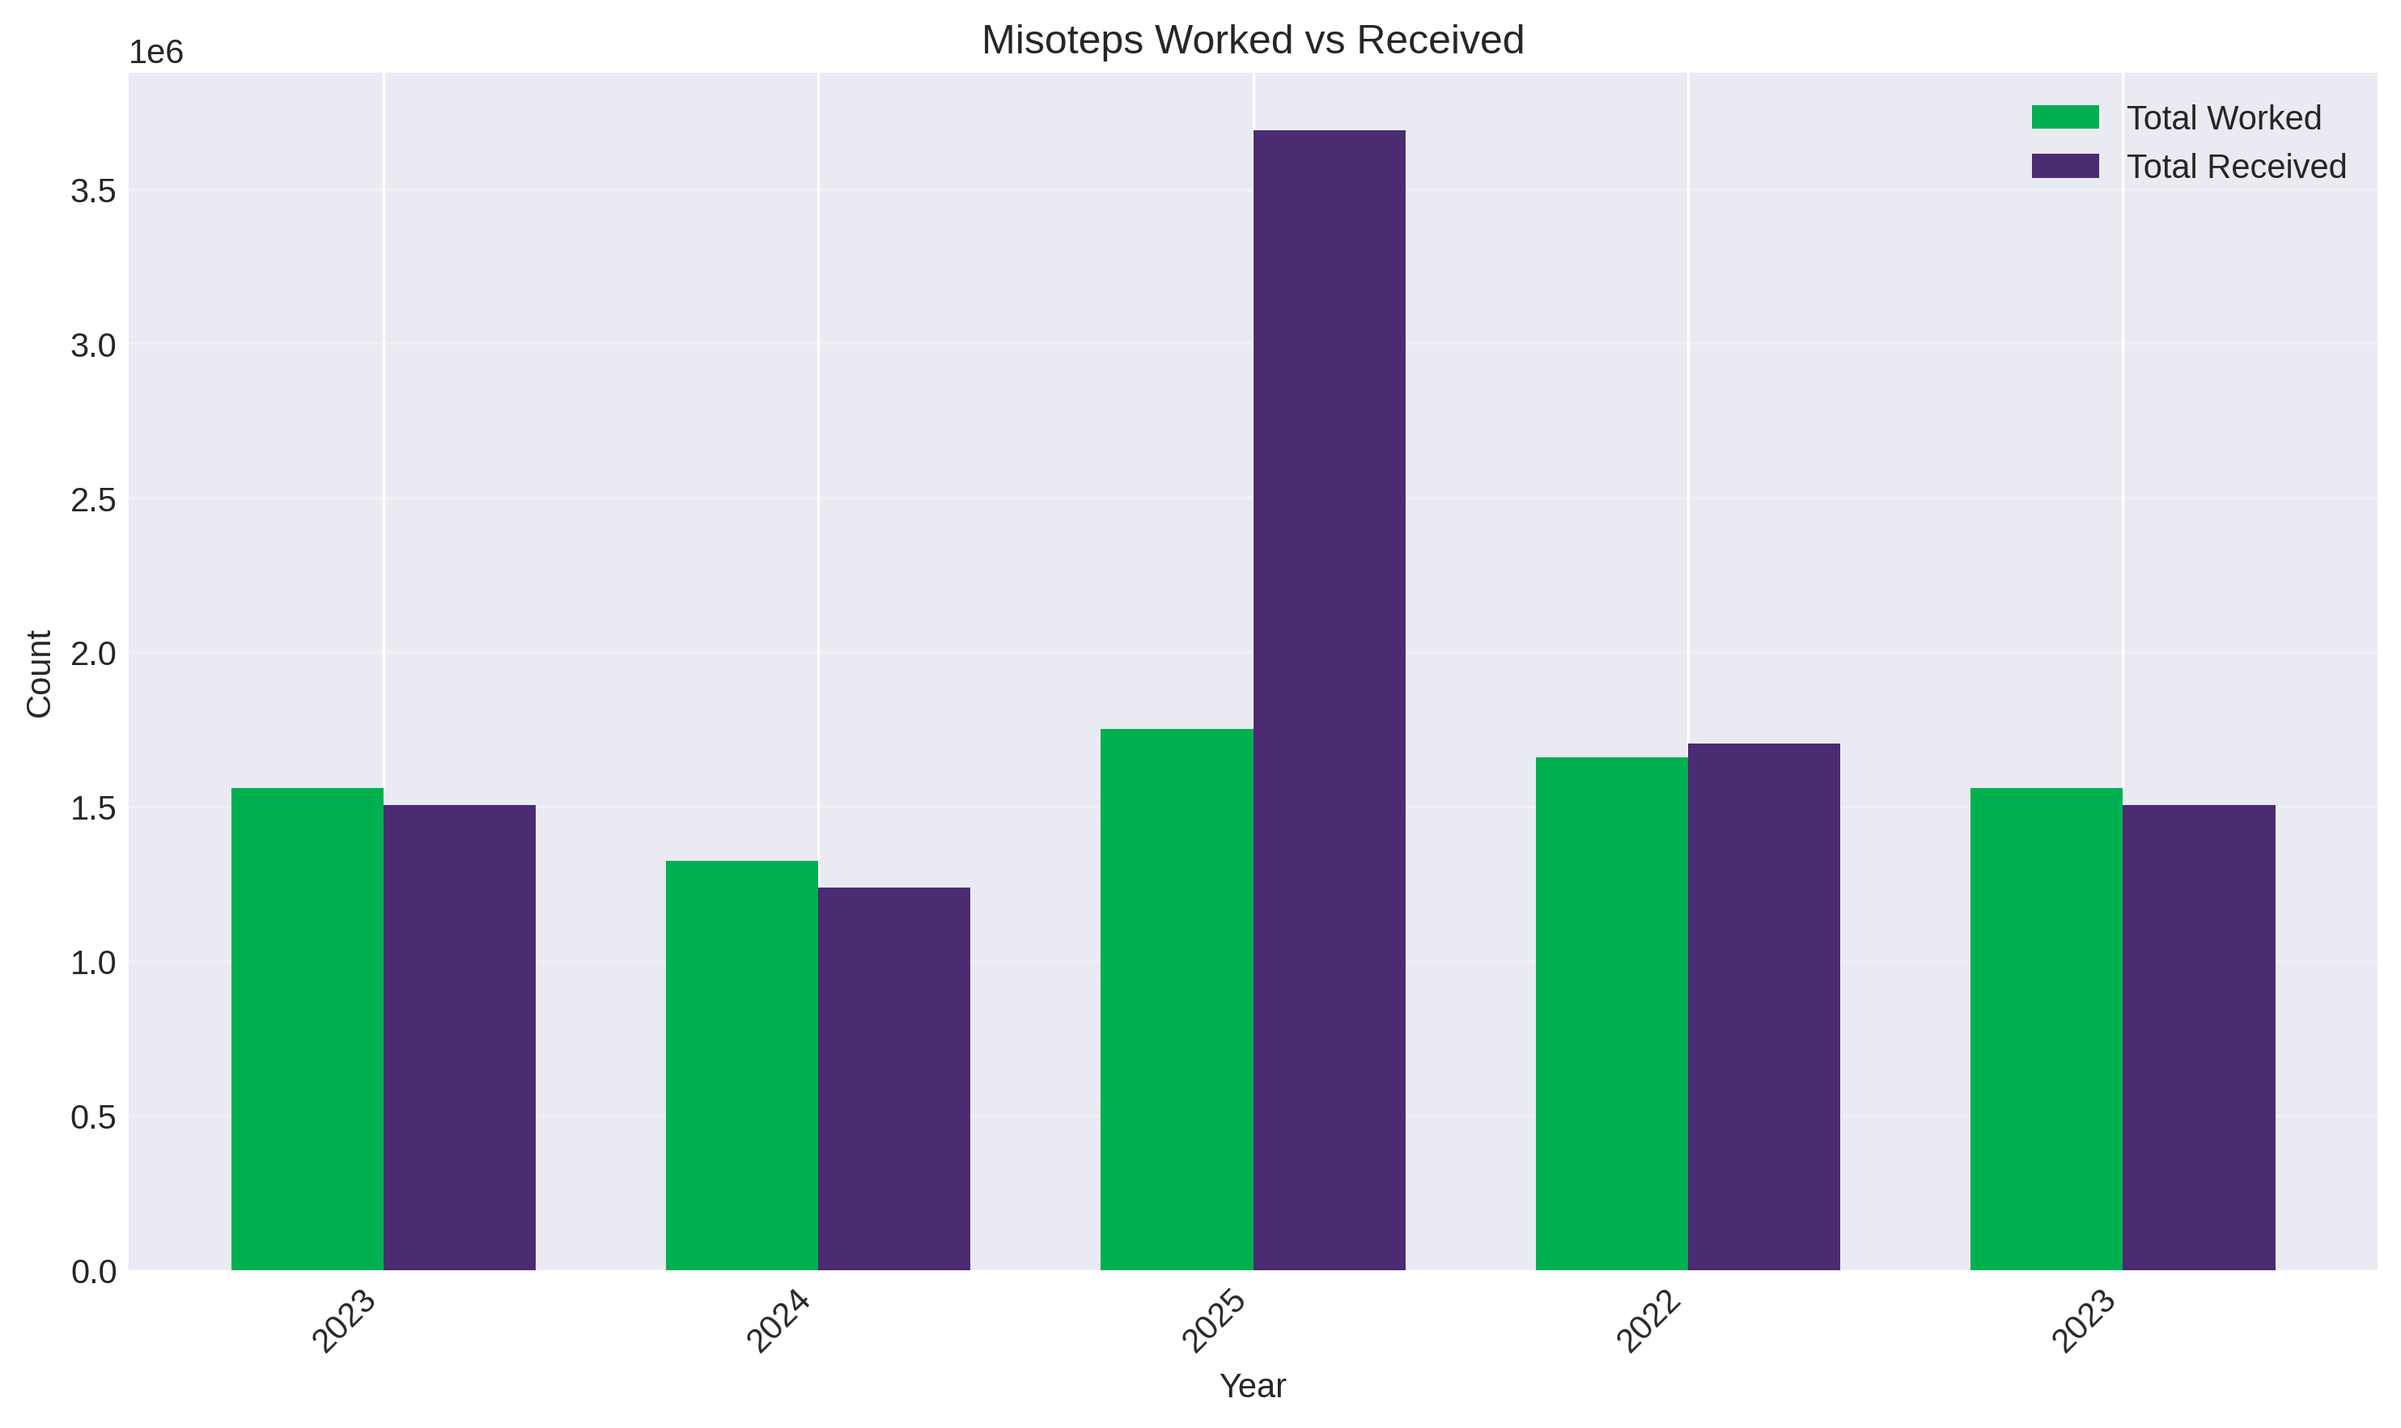
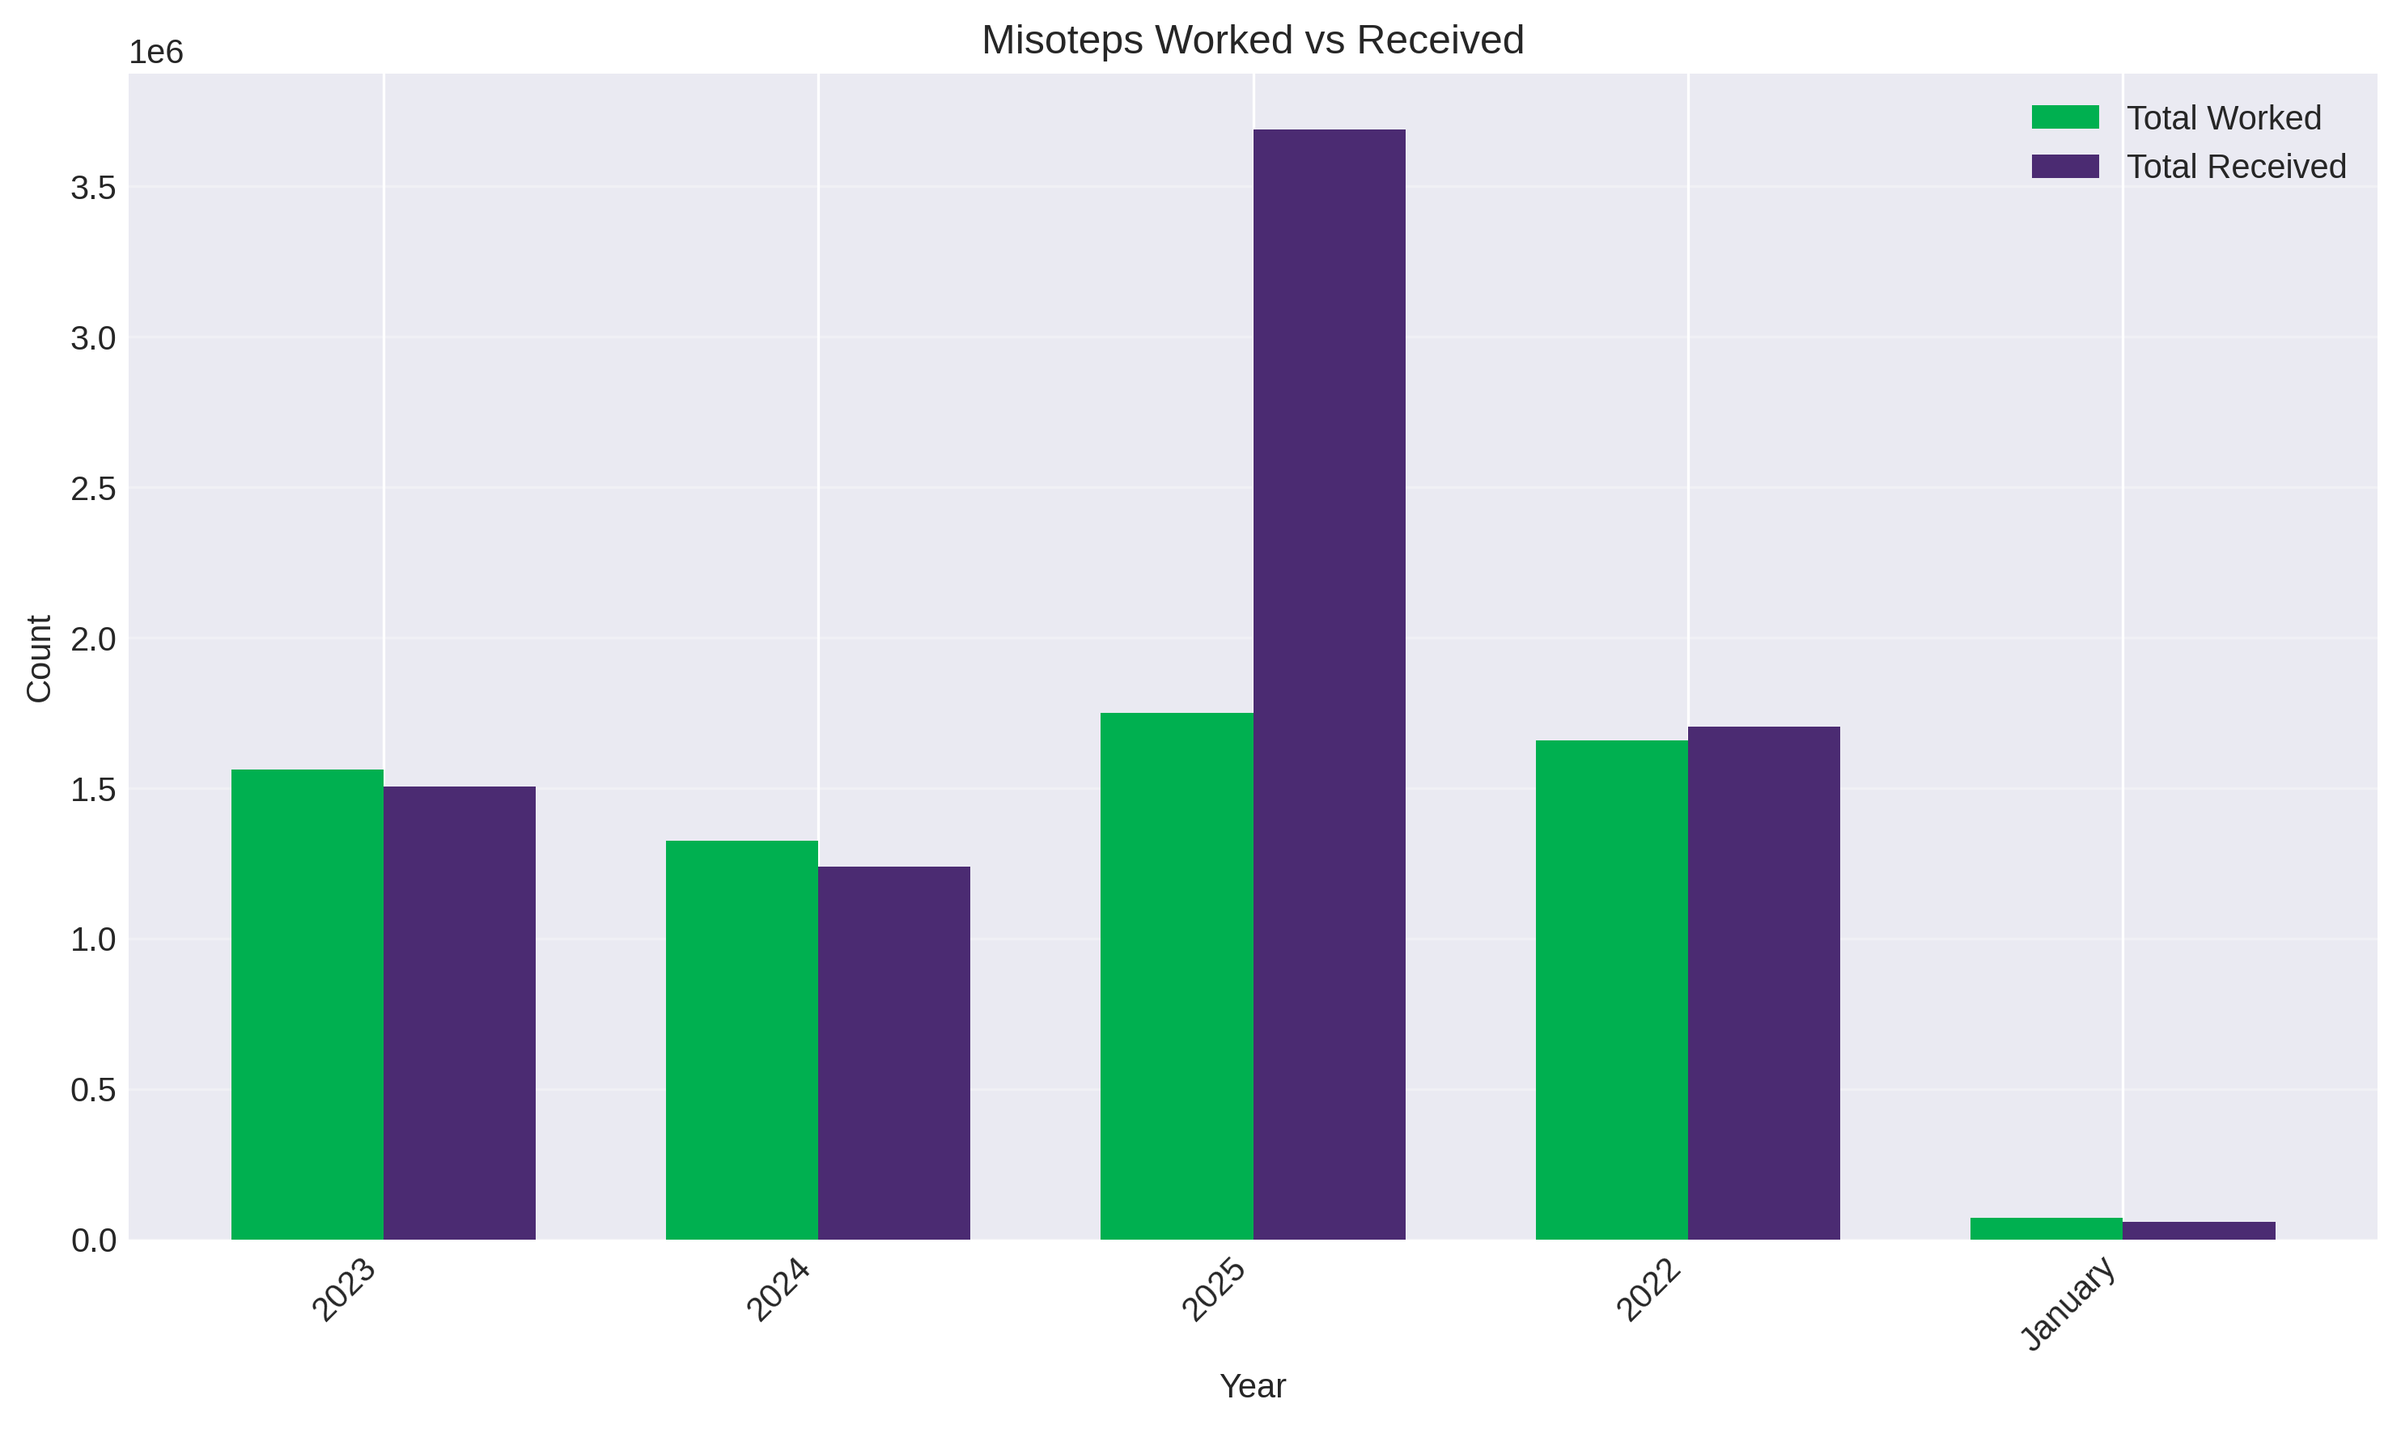
Auto-generate toll reports

diff --git a/reports/index.html b/reports/index.html
@@ -1,1 +1,1 @@
-<!DOCTYPE html><html><head><meta charset="UTF-8"><title>Toll Reports</title><style>body{font-family:Arial;background:#f0f0f0;padding:20px}.container{max-width:1600px;margin:0 auto;background:white;border-radius:10px;padding:40px}header{text-align:center;border-bottom:4px solid #4B2B72;padding-bottom:20px;margin-bottom:30px}h1{color:#333;font-size:2.5em}.subtitle{color:#00B050;font-weight:bold}.legend{display:flex;justify-content:center;gap:40px;margin:20px 0}.legend-item{display:flex;align-items:center;gap:10px}.legend-color{width:30px;height:30px;border-radius:4px}.worked{background:#00B050}.received{background:#4B2B72}.section-title{color:#4B2B72;font-size:2em;font-weight:bold;margin:30px 0 20px 0;border-bottom:3px solid #00B050;padding-bottom:10px}.system-title{color:#4B2B72;font-size:1.5em;margin:20px 0 10px 0}.wrapper{display:grid;grid-template-columns:1fr 1fr;gap:30px}table{width:100%;border-collapse:collapse}th{background:#4B2B72;color:white;padding:10px}td{padding:8px;border:1px solid #ddd}img{max-width:100%;border-radius:5px}footer{text-align:center;margin-top:50px;border-top:2px solid #4B2B72;padding-top:20px}</style></head><body><div class="container"><header><h1>📊 Toll Reports Dashboard</h1><div class="subtitle">Monthly, Quarterly & Yearly Performance Analysis</div></header><div class="legend"><div class="legend-item"><div class="legend-color worked"></div>Total Worked</div><div class="legend-item"><div class="legend-color received"></div>Total Received</div></div><section><h2 class="section-title">📈 Yearly Performance</h2><div class="system-title">Misoteps Yearly</div><div class="wrapper"><div><table><tr><th>Year</th><th>Worked</th><th>Received</th></tr><tr><td>2023</td><td>1,561,399</td><td>1,505,273</td></tr><tr><td>2024</td><td>1,325,603</td><td>1,238,962</td></tr><tr><td>2025</td><td>1,751,372</td><td>3,690,747</td></tr><tr><td>2022</td><td>1,659,574</td><td>1,704,622</td></tr><tr><td>2023</td><td>1,561,399</td><td>1,505,273</td></tr></table></div><div><img src="graphs/yearly_misoteps.png"></div></div><div class="system-title">IMIS Yearly</div><div class="wrapper"><div><table><tr><th>Year</th><th>Worked</th><th>Received</th></tr><tr><td>2023</td><td>231,735</td><td>232,948</td></tr><tr><td>2024</td><td>210,289</td><td>208,899</td></tr><tr><td>2025</td><td>554,032</td><td>553,867</td></tr><tr><td>2022</td><td>357,614</td><td>359,412</td></tr><tr><td>2023</td><td>231,735</td><td>232,948</td></tr></table></div><div><img src="graphs/yearly_imis.png"></div></div><div class="system-title">AEM Yearly</div><div class="wrapper"><div><table><tr><th>Year</th><th>Worked</th><th>Received</th></tr><tr><td>2023</td><td>44,534,448</td><td>42,466,979</td></tr><tr><td>2024</td><td>41,987,574</td><td>35,630,039</td></tr><tr><td>2025</td><td>45,586,017</td><td>35,716,493</td></tr><tr><td>2022</td><td>38,421,455</td><td>37,251,655</td></tr><tr><td>2023</td><td>44,534,448</td><td>42,466,979</td></tr></table></div><div><img src="graphs/yearly_aem.png"></div></div></section><section><h2 class="section-title">📊 Quarterly Performance</h2><div class="system-title">Misoteps Quarterly</div><div class="wrapper"><div><table><tr><th>Quarter</th><th>Worked</th><th>Received</th></tr><tr><td>Q1</td><td>1,561,399</td><td>1,505,273</td></tr><tr><td>Q2</td><td>1,325,603</td><td>1,238,962</td></tr><tr><td>Q3</td><td>1,751,372</td><td>3,690,747</td></tr><tr><td>Q4</td><td>1,659,574</td><td>1,704,622</td></tr></table></div><div><img src="graphs/quarterly_misoteps.png"></div></div><div class="system-title">IMIS Quarterly</div><div class="wrapper"><div><table><tr><th>Quarter</th><th>Worked</th><th>Received</th></tr><tr><td>Q1</td><td>231,735</td><td>232,948</td></tr><tr><td>Q2</td><td>210,289</td><td>208,899</td></tr><tr><td>Q3</td><td>554,032</td><td>553,867</td></tr><tr><td>Q4</td><td>357,614</td><td>359,412</td></tr></table></div><div><img src="graphs/quarterly_imis.png"></div></div><div class="system-title">AEM Quarterly</div><div class="wrapper"><div><table><tr><th>Quarter</th><th>Worked</th><th>Received</th></tr><tr><td>Q1</td><td>44,534,448</td><td>42,466,979</td></tr><tr><td>Q2</td><td>41,987,574</td><td>35,630,039</td></tr><tr><td>Q3</td><td>45,586,017</td><td>35,716,493</td></tr><tr><td>Q4</td><td>38,421,455</td><td>37,251,655</td></tr></table></div><div><img src="graphs/quarterly_aem.png"></div></div></section><section><h2 class="section-title">📅 Monthly Performance</h2><div class="system-title">Misoteps Monthly</div><div class="wrapper"><div><table><tr><th>Month</th><th>Worked</th><th>Received</th></tr><tr><td>Jan</td><td>1,561,399</td><td>1,505,273</td></tr><tr><td>Feb</td><td>1,325,603</td><td>1,238,962</td></tr><tr><td>Mar</td><td>1,751,372</td><td>3,690,747</td></tr><tr><td>Apr</td><td>1,659,574</td><td>1,704,622</td></tr><tr><td>May</td><td>1,561,399</td><td>1,505,273</td></tr><tr><td>Jun</td><td>1,325,603</td><td>1,238,962</td></tr><tr><td>Jul</td><td>1,751,372</td><td>3,690,747</td></tr><tr><td>Aug</td><td>71,645</td><td>57,851</td></tr><tr><td>Sep</td><td>68,201</td><td>129,513</td></tr><tr><td>Oct</td><td>61,039</td><td>111,029</td></tr><tr><td>Nov</td><td>56,508</td><td>94,254</td></tr><tr><td>Dec</td><td>114,033</td><td>91,958</td></tr></table></div><div><img src="graphs/monthly_misoteps.png"></div></div><div class="system-title">IMIS Monthly</div><div class="wrapper"><div><table><tr><th>Month</th><th>Worked</th><th>Received</th></tr><tr><td>Jan</td><td>231,735</td><td>232,948</td></tr><tr><td>Feb</td><td>210,289</td><td>208,899</td></tr><tr><td>Mar</td><td>554,032</td><td>553,867</td></tr><tr><td>Apr</td><td>357,614</td><td>359,412</td></tr><tr><td>May</td><td>231,735</td><td>232,948</td></tr><tr><td>Jun</td><td>210,289</td><td>208,899</td></tr><tr><td>Jul</td><td>554,032</td><td>553,867</td></tr><tr><td>Aug</td><td>18,123</td><td>18,283</td></tr><tr><td>Sep</td><td>13,599</td><td>13,759</td></tr><tr><td>Oct</td><td>12,270</td><td>12,430</td></tr><tr><td>Nov</td><td>17,673</td><td>17,513</td></tr><tr><td>Dec</td><td>36,130</td><td>36,131</td></tr></table></div><div><img src="graphs/monthly_imis.png"></div></div><div class="system-title">AEM Monthly</div><div class="wrapper"><div><table><tr><th>Month</th><th>Worked</th><th>Received</th></tr><tr><td>Jan</td><td>44,534,448</td><td>42,466,979</td></tr><tr><td>Feb</td><td>41,987,574</td><td>35,630,039</td></tr><tr><td>Mar</td><td>45,586,017</td><td>35,716,493</td></tr><tr><td>Apr</td><td>38,421,455</td><td>37,251,655</td></tr><tr><td>May</td><td>44,534,448</td><td>42,466,979</td></tr><tr><td>Jun</td><td>41,987,574</td><td>35,630,039</td></tr><tr><td>Jul</td><td>45,586,017</td><td>35,716,493</td></tr><tr><td>Aug</td><td>3,291,174</td><td>2,643,262</td></tr><tr><td>Sep</td><td>3,441,316</td><td>2,758,836</td></tr><tr><td>Oct</td><td>3,740,054</td><td>3,092,192</td></tr><tr><td>Nov</td><td>4,253,086</td><td>3,477,365</td></tr><tr><td>Dec</td><td>3,450,952</td><td>2,571,681</td></tr></table></div><div><img src="graphs/monthly_aem.png"></div></div></section><footer>Last Updated: September 18, 2026</footer></div></body></html>
+<!DOCTYPE html><html><head><meta charset="UTF-8"><title>Toll Reports</title><style>body{font-family:Arial;background:#f0f0f0;padding:20px}.container{max-width:1600px;margin:0 auto;background:white;border-radius:10px;padding:40px}header{text-align:center;border-bottom:4px solid #4B2B72;padding-bottom:20px;margin-bottom:30px}h1{color:#333;font-size:2.5em}.subtitle{color:#00B050;font-weight:bold}.legend{display:flex;justify-content:center;gap:40px;margin:20px 0}.legend-item{display:flex;align-items:center;gap:10px}.legend-color{width:30px;height:30px;border-radius:4px}.worked{background:#00B050}.received{background:#4B2B72}.section-title{color:#4B2B72;font-size:2em;font-weight:bold;margin:30px 0 20px 0;border-bottom:3px solid #00B050;padding-bottom:10px}.system-title{color:#4B2B72;font-size:1.5em;margin:20px 0 10px 0}.wrapper{display:grid;grid-template-columns:1fr 1fr;gap:30px}table{width:100%;border-collapse:collapse}th{background:#4B2B72;color:white;padding:10px}td{padding:8px;border:1px solid #ddd}img{max-width:100%;border-radius:5px}footer{text-align:center;margin-top:50px;border-top:2px solid #4B2B72;padding-top:20px}</style></head><body><div class="container"><header><h1>📊 Toll Reports Dashboard</h1><div class="subtitle">Monthly, Quarterly & Yearly Performance Analysis</div></header><div class="legend"><div class="legend-item"><div class="legend-color worked"></div>Total Worked</div><div class="legend-item"><div class="legend-color received"></div>Total Received</div></div><section><h2 class="section-title">📈 Yearly Performance</h2><div class="system-title">Misoteps Yearly</div><div class="wrapper"><div><table><tr><th>Year</th><th>Worked</th><th>Received</th></tr><tr><td>2023</td><td>1,561,399</td><td>1,505,273</td></tr><tr><td>2024</td><td>1,325,603</td><td>1,238,962</td></tr><tr><td>2025</td><td>1,751,372</td><td>3,690,747</td></tr><tr><td>2022</td><td>1,659,574</td><td>1,704,622</td></tr><tr><td>January</td><td>71,645</td><td>57,851</td></tr></table></div><div><img src="graphs/yearly_misoteps.png"></div></div><div class="system-title">IMIS Yearly</div><div class="wrapper"><div><table><tr><th>Year</th><th>Worked</th><th>Received</th></tr><tr><td>2023</td><td>231,735</td><td>232,948</td></tr><tr><td>2024</td><td>210,289</td><td>208,899</td></tr><tr><td>2025</td><td>554,032</td><td>553,867</td></tr><tr><td>2022</td><td>357,614</td><td>359,412</td></tr><tr><td>January</td><td>18,123</td><td>18,283</td></tr></table></div><div><img src="graphs/yearly_imis.png"></div></div><div class="system-title">AEM Yearly</div><div class="wrapper"><div><table><tr><th>Year</th><th>Worked</th><th>Received</th></tr><tr><td>2023</td><td>44,534,448</td><td>42,466,979</td></tr><tr><td>2024</td><td>41,987,574</td><td>35,630,039</td></tr><tr><td>2025</td><td>45,586,017</td><td>35,716,493</td></tr><tr><td>2022</td><td>38,421,455</td><td>37,251,655</td></tr><tr><td>January</td><td>3,291,174</td><td>2,643,262</td></tr></table></div><div><img src="graphs/yearly_aem.png"></div></div></section><section><h2 class="section-title">📊 Quarterly Performance</h2><div class="system-title">Misoteps Quarterly</div><div class="wrapper"><div><table><tr><th>Quarter</th><th>Worked</th><th>Received</th></tr><tr><td>Q1</td><td>1,561,399</td><td>1,505,273</td></tr><tr><td>Q2</td><td>1,325,603</td><td>1,238,962</td></tr><tr><td>Q3</td><td>1,751,372</td><td>3,690,747</td></tr><tr><td>Q4</td><td>1,659,574</td><td>1,704,622</td></tr></table></div><div><img src="graphs/quarterly_misoteps.png"></div></div><div class="system-title">IMIS Quarterly</div><div class="wrapper"><div><table><tr><th>Quarter</th><th>Worked</th><th>Received</th></tr><tr><td>Q1</td><td>231,735</td><td>232,948</td></tr><tr><td>Q2</td><td>210,289</td><td>208,899</td></tr><tr><td>Q3</td><td>554,032</td><td>553,867</td></tr><tr><td>Q4</td><td>357,614</td><td>359,412</td></tr></table></div><div><img src="graphs/quarterly_imis.png"></div></div><div class="system-title">AEM Quarterly</div><div class="wrapper"><div><table><tr><th>Quarter</th><th>Worked</th><th>Received</th></tr><tr><td>Q1</td><td>44,534,448</td><td>42,466,979</td></tr><tr><td>Q2</td><td>41,987,574</td><td>35,630,039</td></tr><tr><td>Q3</td><td>45,586,017</td><td>35,716,493</td></tr><tr><td>Q4</td><td>38,421,455</td><td>37,251,655</td></tr></table></div><div><img src="graphs/quarterly_aem.png"></div></div></section><section><h2 class="section-title">📅 Monthly Performance</h2><div class="system-title">Misoteps Monthly</div><div class="wrapper"><div><table><tr><th>Month</th><th>Worked</th><th>Received</th></tr><tr><td>Jan</td><td>1,561,399</td><td>1,505,273</td></tr><tr><td>Feb</td><td>1,325,603</td><td>1,238,962</td></tr><tr><td>Mar</td><td>1,751,372</td><td>3,690,747</td></tr><tr><td>Apr</td><td>1,659,574</td><td>1,704,622</td></tr><tr><td>May</td><td>1,561,399</td><td>1,505,273</td></tr><tr><td>Jun</td><td>1,325,603</td><td>1,238,962</td></tr><tr><td>Jul</td><td>1,751,372</td><td>3,690,747</td></tr><tr><td>Aug</td><td>71,645</td><td>57,851</td></tr><tr><td>Sep</td><td>68,201</td><td>129,513</td></tr><tr><td>Oct</td><td>61,039</td><td>111,029</td></tr><tr><td>Nov</td><td>56,508</td><td>94,254</td></tr><tr><td>Dec</td><td>114,033</td><td>91,958</td></tr></table></div><div><img src="graphs/monthly_misoteps.png"></div></div><div class="system-title">IMIS Monthly</div><div class="wrapper"><div><table><tr><th>Month</th><th>Worked</th><th>Received</th></tr><tr><td>Jan</td><td>231,735</td><td>232,948</td></tr><tr><td>Feb</td><td>210,289</td><td>208,899</td></tr><tr><td>Mar</td><td>554,032</td><td>553,867</td></tr><tr><td>Apr</td><td>357,614</td><td>359,412</td></tr><tr><td>May</td><td>231,735</td><td>232,948</td></tr><tr><td>Jun</td><td>210,289</td><td>208,899</td></tr><tr><td>Jul</td><td>554,032</td><td>553,867</td></tr><tr><td>Aug</td><td>18,123</td><td>18,283</td></tr><tr><td>Sep</td><td>13,599</td><td>13,759</td></tr><tr><td>Oct</td><td>12,270</td><td>12,430</td></tr><tr><td>Nov</td><td>17,673</td><td>17,513</td></tr><tr><td>Dec</td><td>36,130</td><td>36,131</td></tr></table></div><div><img src="graphs/monthly_imis.png"></div></div><div class="system-title">AEM Monthly</div><div class="wrapper"><div><table><tr><th>Month</th><th>Worked</th><th>Received</th></tr><tr><td>Jan</td><td>44,534,448</td><td>42,466,979</td></tr><tr><td>Feb</td><td>41,987,574</td><td>35,630,039</td></tr><tr><td>Mar</td><td>45,586,017</td><td>35,716,493</td></tr><tr><td>Apr</td><td>38,421,455</td><td>37,251,655</td></tr><tr><td>May</td><td>44,534,448</td><td>42,466,979</td></tr><tr><td>Jun</td><td>41,987,574</td><td>35,630,039</td></tr><tr><td>Jul</td><td>45,586,017</td><td>35,716,493</td></tr><tr><td>Aug</td><td>3,291,174</td><td>2,643,262</td></tr><tr><td>Sep</td><td>3,441,316</td><td>2,758,836</td></tr><tr><td>Oct</td><td>3,740,054</td><td>3,092,192</td></tr><tr><td>Nov</td><td>4,253,086</td><td>3,477,365</td></tr><tr><td>Dec</td><td>3,450,952</td><td>2,571,681</td></tr></table></div><div><img src="graphs/monthly_aem.png"></div></div></section><footer>Last Updated: September 18, 2026</footer></div></body></html>
